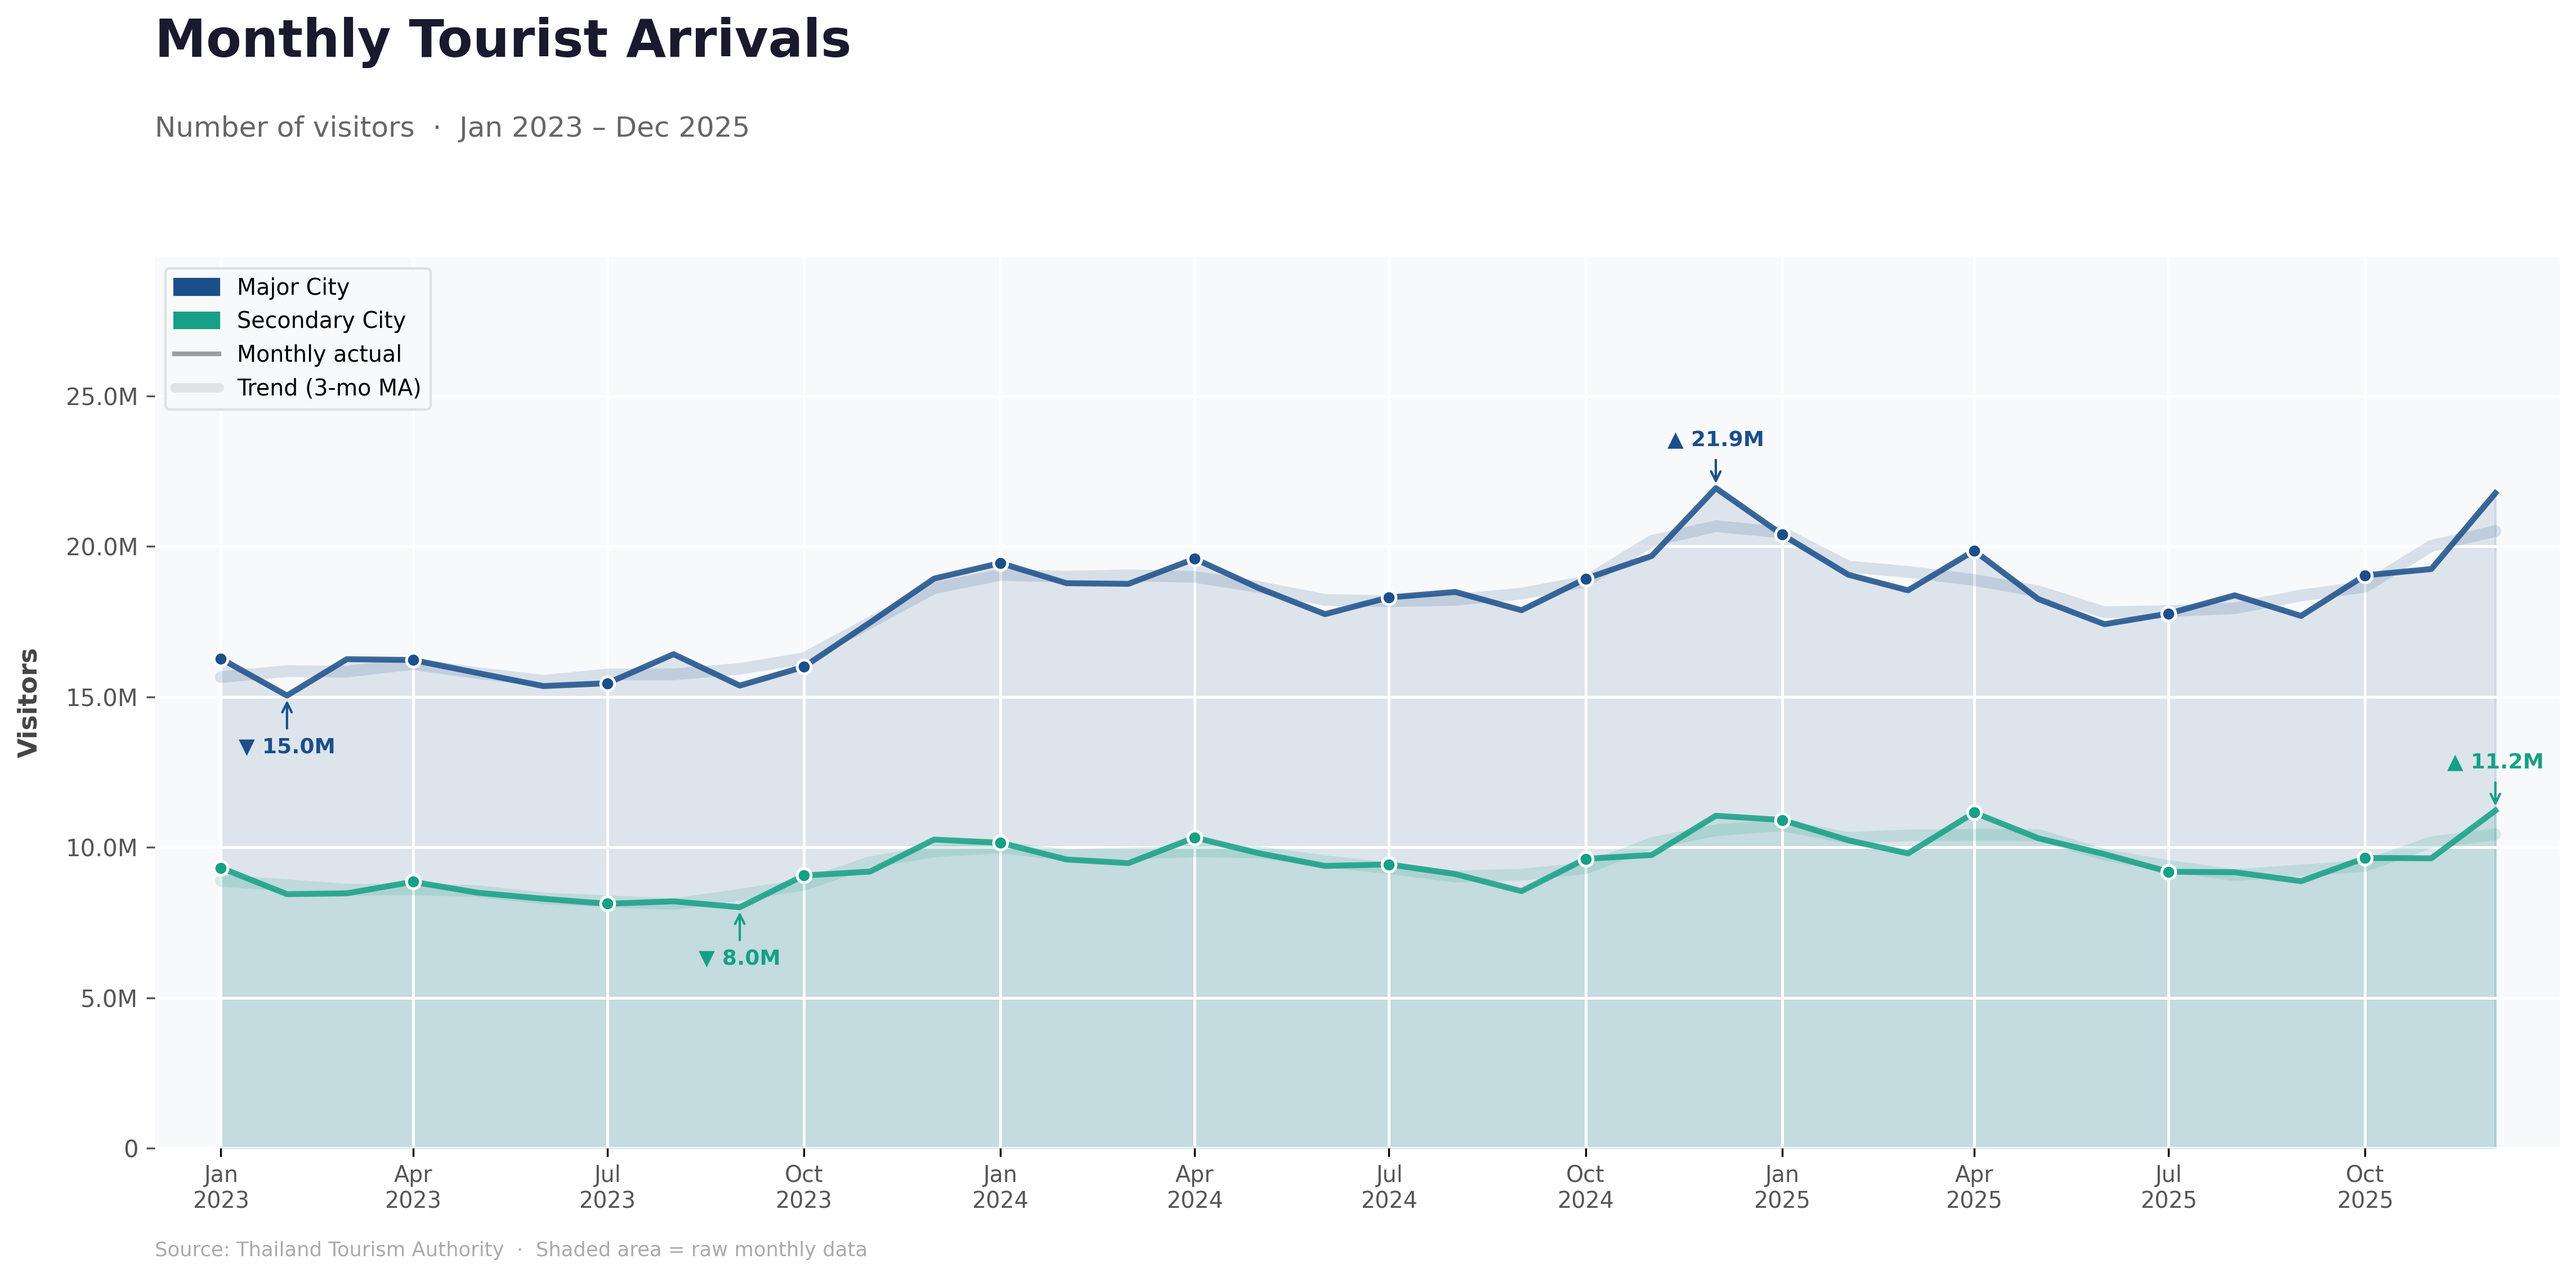
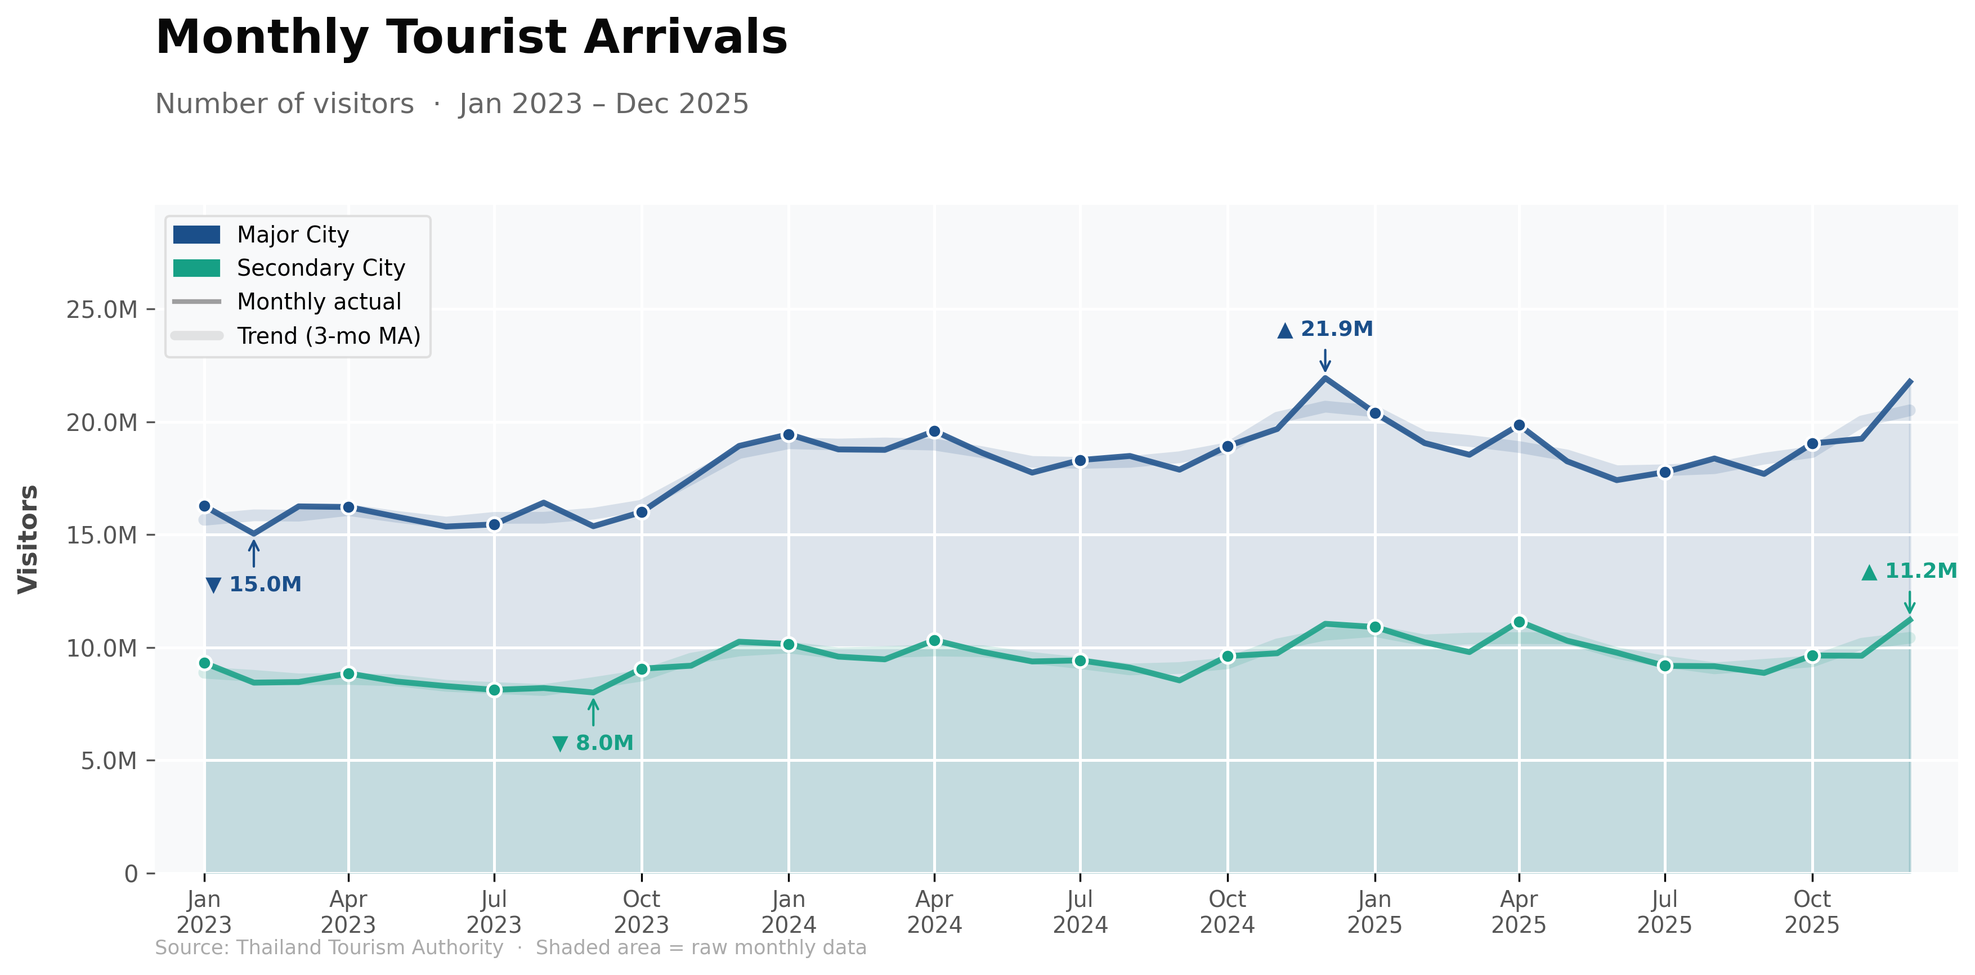
Rename output files to Figure_1_total_visitors_trend and Figure_1_total_Revenue_trend

diff --git a/visualizations/01_Trend_visitors_revenue.py b/visualizations/01_Trend_visitors_revenue.py
@@ -63,14 +63,14 @@ CHART_CONFIGS = [
         'title':    'Monthly Tourist Arrivals',
         'subtitle': 'Number of visitors  ·  Jan 2023 – Dec 2025',
         'ylabel':   'Visitors',
-        'filename': 'total_visitors_trend.png',
+        'filename': 'Figure_1_total_visitors_trend.png',
     },
     {
         'col':      'total_revenue',
         'title':    'Monthly Tourism Income',
         'subtitle': 'Total revenue (Million THB)  ·  Jan 2023 – Dec 2025', # ใส่หน่วยใน Subtitle เพื่อความชัดเจน
         'ylabel':   'Million THB',
-        'filename': 'total_revenue_trend.png',
+        'filename': 'Figure_1_total_Revenue_trend.png',
     },
 ]
 
@@ -84,7 +84,7 @@ def create_chart(cfg):
         sub['ma'] = moving_avg(sub[col])
         groups[name] = sub
 
-    fig = plt.figure(figsize=(16, 8))
+    fig = plt.figure(figsize=(12, 6))
     gs  = GridSpec(1, 1, figure=fig, left=0.07, right=0.96, top=0.78, bottom=0.12)
     ax  = fig.add_subplot(gs[0, 0])
 
@@ -146,7 +146,7 @@ def create_chart(cfg):
     ax.legend(handles=handles, loc='upper left', fontsize=9.5, framealpha=0.9, edgecolor='#DDD')
 
     # ข้อความหัวกราฟและที่มา
-    fig.text(0.07, 0.92, cfg['title'], fontsize=22, fontweight='bold', color='#1A1A2E', va='bottom')
+    fig.text(0.07, 0.92, cfg['title'], fontsize=20, fontweight='bold', color="#080808", va='bottom')
     fig.text(0.07, 0.865, cfg['subtitle'], fontsize=12, color='#666', va='bottom')
     fig.text(0.07, 0.04, 'Source: Thailand Tourism Authority  ·  Shaded area = raw monthly data', fontsize=8.5, color='#AAA')
 

diff --git a/README.md b/README.md
@@ -64,7 +64,7 @@ To evaluate the true impact of Thailand's tourism policies, this project seeks t
 The first phase of our study addresses the "Paradox of Plenty." While the national policy has successfully decentralized visitor footprints, the economic benefits remain largely anchored in primary hubs.
 
 <p align="center">
-  <img src="visualizations/total_visitors_trend.png" alt="Tourist Arrivals Trend" width="800">
+  <img src="visualizations/Figure_1_total_visitors_trend.png" alt="Tourist Arrivals Trend" width="800">
 </p>
 <p align="center"><strong>Figure 1A. Monthly Tourist Arrivals: Primary vs. Secondary Cities (2023–2025)</strong></p>
 
@@ -73,7 +73,7 @@ The first phase of our study addresses the "Paradox of Plenty." While the nation
 
 
 <p align="center">
-  <img src="visualizations/total_revenue_trend.png" alt="Tourism Income Trend" width="800">
+  <img src="visualizations/Figure_1_total_Revenue_trend.png" alt="Tourism Income Trend" width="800">
 </p>
 <p align="center"><strong>Figure 1B. Monthly Tourism Revenue: Primary vs. Secondary Cities (2023–2025)</strong></p>
 
